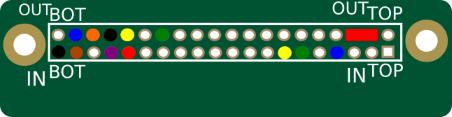
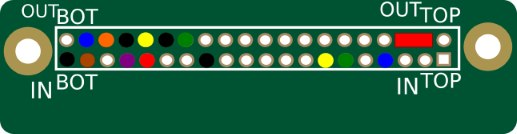
Update wiring
- Add I2S Audio
- Correct components image link
- Correct Buttons placements
- Add link to github

diff --git a/docs/md/retropie.md b/docs/md/retropie.md
@@ -47,18 +47,17 @@ Select 1
 
 Modify /boot/retrogame.cfg
 ````
-LEFT       4  # Joypad left
-RIGHT     13  # Joypad right
+LEFT      13  # Joypad left
+RIGHT      4  # Joypad right
 DOWN      26  # Joypad down
 UP        16  # Joypad up
-Z          6  # 'A' button
+Z         20  # 'A' button
 X         27  # 'B' button
-A         20  # 'X' button
-S         17  # 'Y' button
-Q         12  # Left shoulder button
-W         13  # Right shoulder button
+A         17  # 'X' button
+S          6  # 'Y' button
+Q          1  # Left shoulder button
+W         12  # Right shoulder button
 ESC       22  # Exit ROM; PiTFT Button 1
 LEFTCTRL   5  # 'Select' button; PiTFT Button 2
 ENTER     24  # 'Start' button; PiTFT Button 3
-4         23  # PiTFT Button 4 (PowerOff)
 ````

diff --git a/docs/md/wiring.md b/docs/md/wiring.md
@@ -23,7 +23,11 @@ Based on Adafruit pigrrl zero: https://learn.adafruit.com/pigrrl-zero/software?v
 | OUT    | BOT        | 2         | BLUE   | 20   | Y                |
 | IN     | TOP        | 6         | GREEN  | 17   | X                |
 | OUT    | BOT        | 5         | YELLOW | 12   | LEFT TRIGGER     |
-| IN     | BOT        | 7         | GREEN  |  1   | RIGHT TRIGGER    |
+| OUT     | BOT        | 7         | GREEN  |  1   | RIGHT TRIGGER    |
+
+## I2S Audio (Optional)
+![I2SAudio](img/07_AUDIO_I2S.jpg)
 
 ## Wiring MPU9250 (Optional)
 ![MPU](img/06_Screen_MPU9250.jpg)
+

diff --git a/docs/md/introduction.md b/docs/md/introduction.md
@@ -1,5 +1,6 @@
 # Introduction
-SNOS is a portable Retropie console    
+SNOS is a portable Retropie console     
+https://www.github.com/madnerdorg/portableRetropie      
 An easy to build, affordable portable console based on [pigrrl zero](https://learn.adafruit.com/pigrrl-zero/overview)   
 BrainStorm : http://bigpictu.re/remi/retropieconsole
 (Work in progress)
